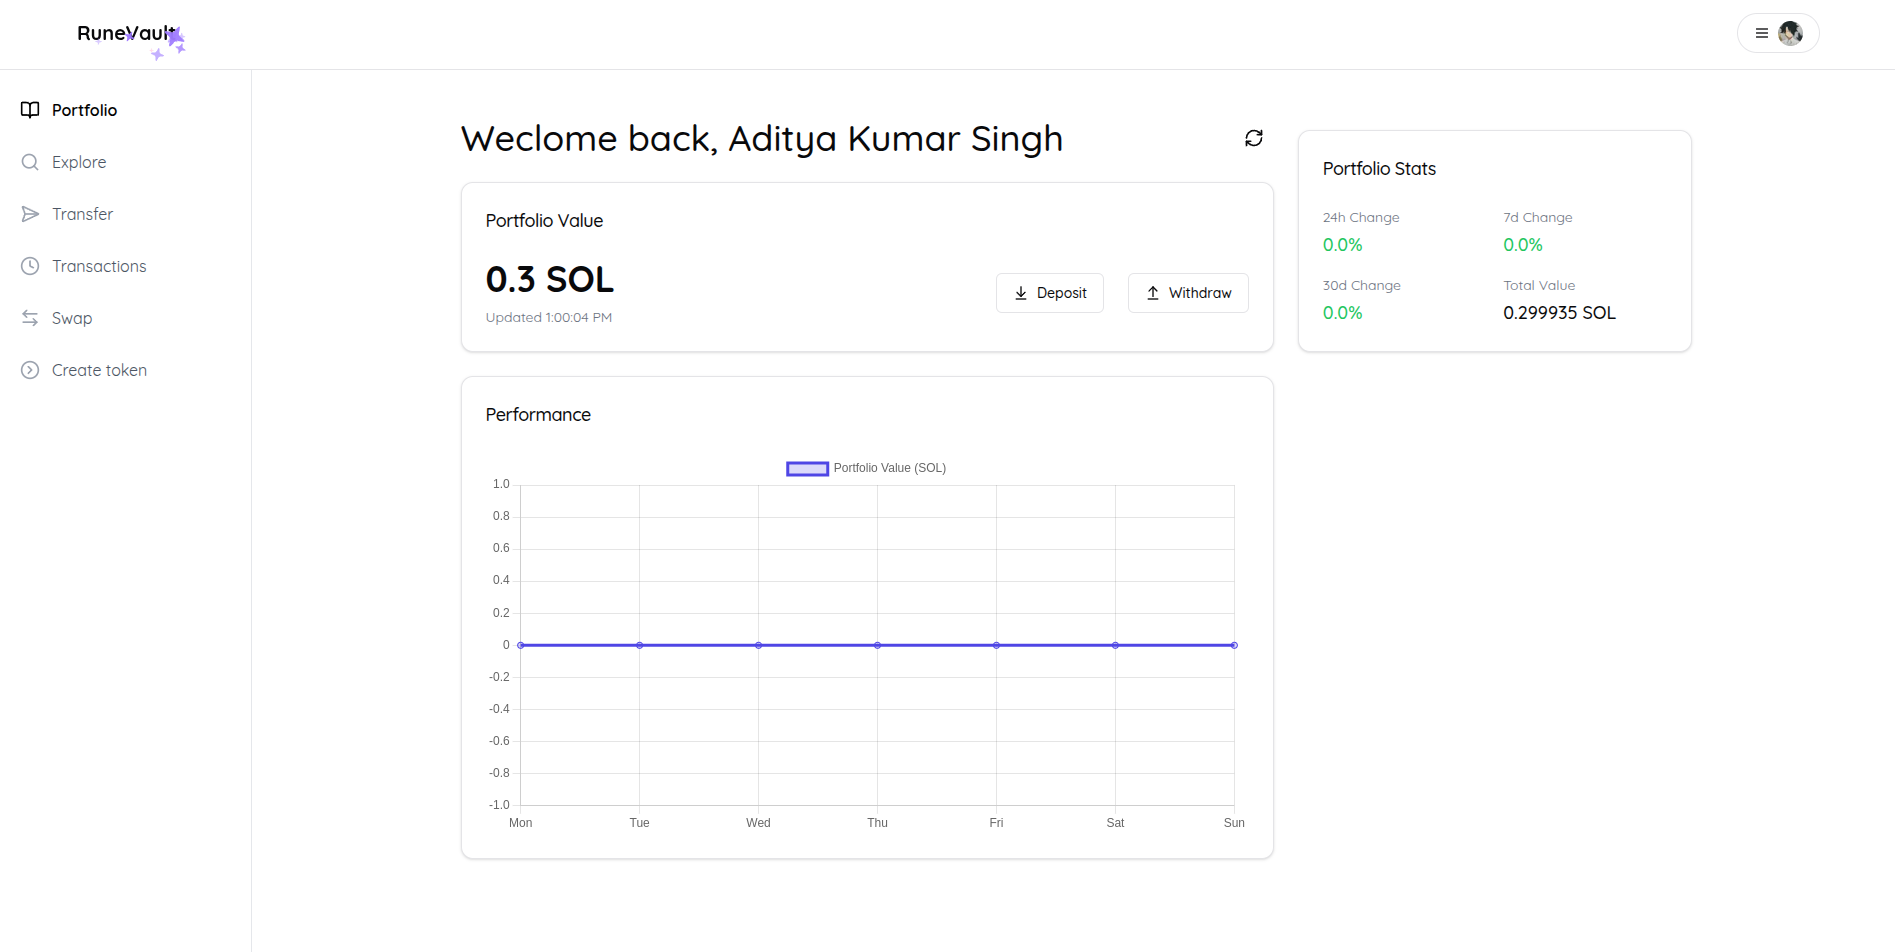
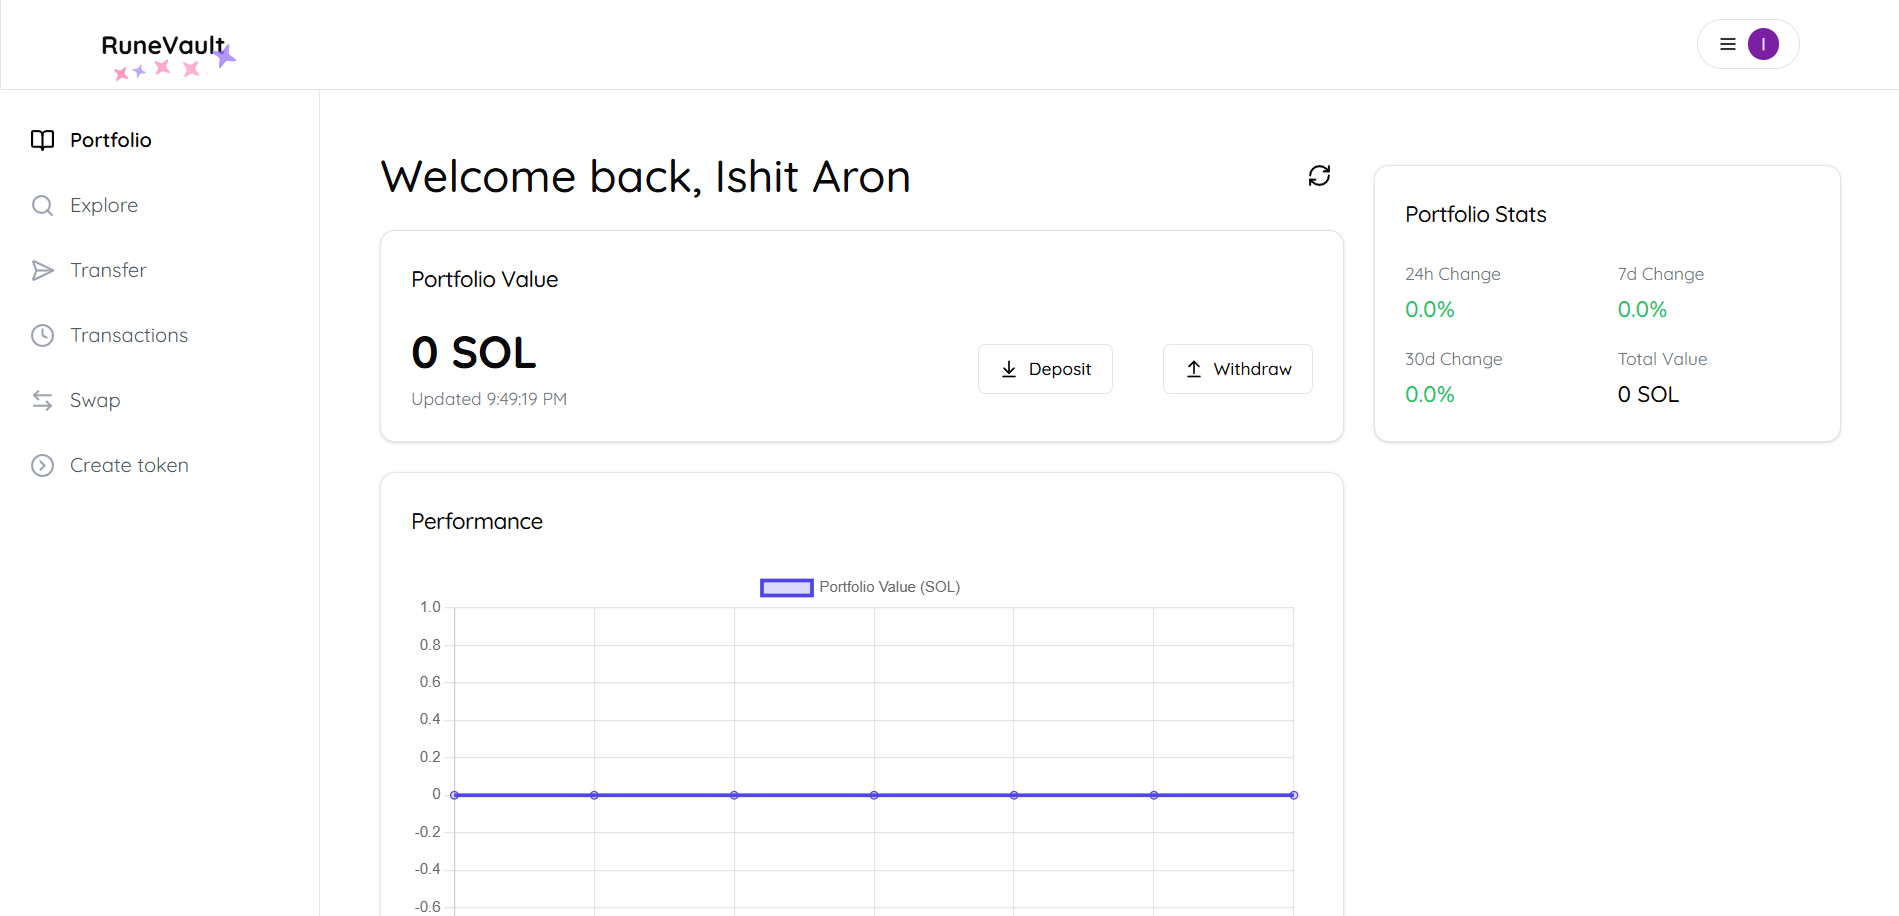
edit2

diff --git a/src/app/page.tsx b/src/app/page.tsx
@@ -14,7 +14,7 @@ function FooterCredit() {
   return (
     <div className="hidden md:block fixed bottom-0 right-0 mb-6 mr-8 text-sm sm:text-base text-black dark:text-white">
       <a
-        href="https://github.com/SmoggyOwO"
+        href="https://github.com/ishitaron08"
         target="_blank"
         rel="noopener noreferrer"
       >
@@ -22,7 +22,7 @@ function FooterCredit() {
         <span role="img" aria-label="heart">
           ❤
         </span>{" "}
-        by Aditya
+        by Ishit Aron
       </a>
     </div>
   );

diff --git a/src/components/landing/Newsletter.tsx b/src/components/landing/Newsletter.tsx
@@ -5,8 +5,8 @@ import { PlaceholdersAndVanishInput } from "@/components/ui/placeholders-and-van
 export default function Newsletter() {
 	const placeholders = [
 		"What's the first rule of Fight Club?",
-		"What’s the current price of Ethereum?",
-		"Follow SmoggyOwO on github ;)",
+		"What's the current price of Ethereum?",
+		"Follow ishitaron08 on github ;)",
 		"Securely manage your crypto with just a Google account",
 		"Ready to explore the crypto world?",
 	];

diff --git a/src/app/c/portfolio/page.tsx b/src/app/c/portfolio/page.tsx
@@ -194,7 +194,7 @@ export default function Portfolio() {
         <div className="col-span-2">
           <div className="flex items-center justify-between mb-6">
             <h1 className="text-4xl font-medium">
-              Weclome back, {session.data?.user?.name}
+              Welcome back, Ishit Aron
             </h1>
             <Button
               variant="ghost"
